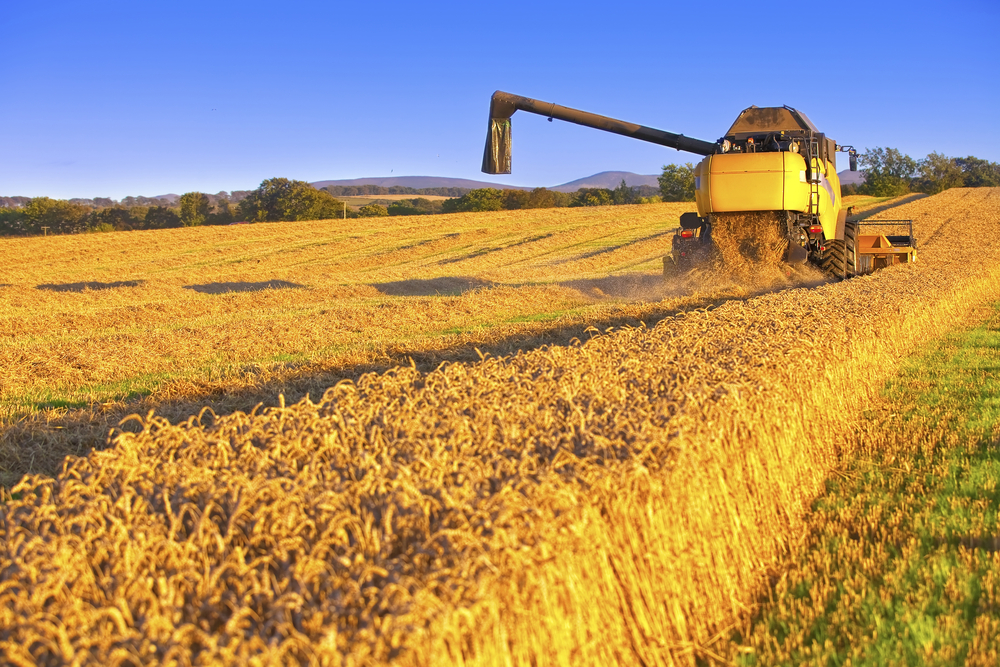
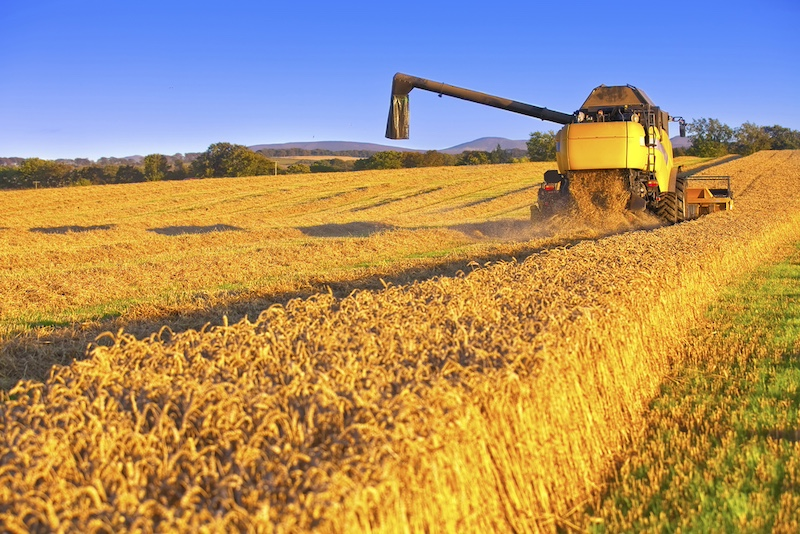
resized images

diff --git a/app/assets/stylesheets/pages/_welcome.scss b/app/assets/stylesheets/pages/_welcome.scss
@@ -7,7 +7,7 @@
   align-items: center;
   background-color: black;
   overflow: hidden;
-  background-image: linear-gradient(rgba(19, 47, 34, .4), rgba(19, 47, 34, .4)), url('background_field_cropped_compressed.jpg');
+  background-image: linear-gradient(rgba(19, 47, 34, .4), rgba(19, 47, 34, .4)), url('background_field_lighter_lighter.jpg');
   background-position: center center;
   background-repeat: no-repeat;
   background-size: cover;
